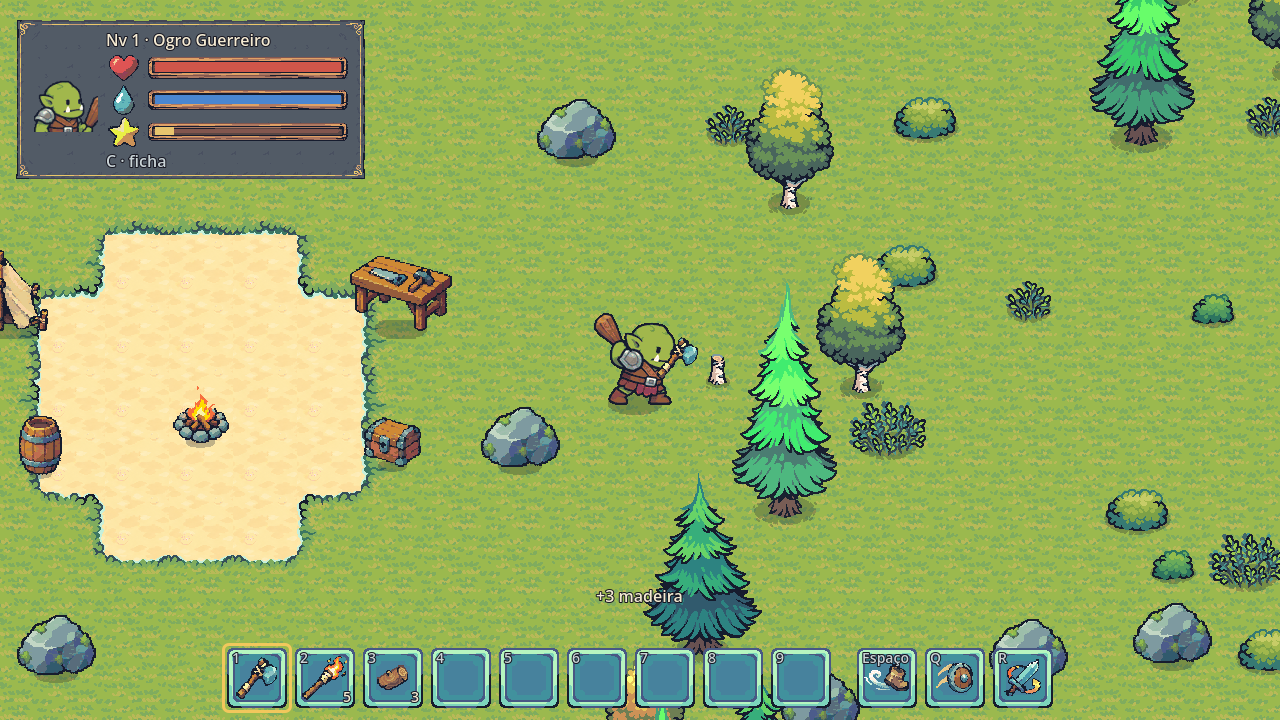
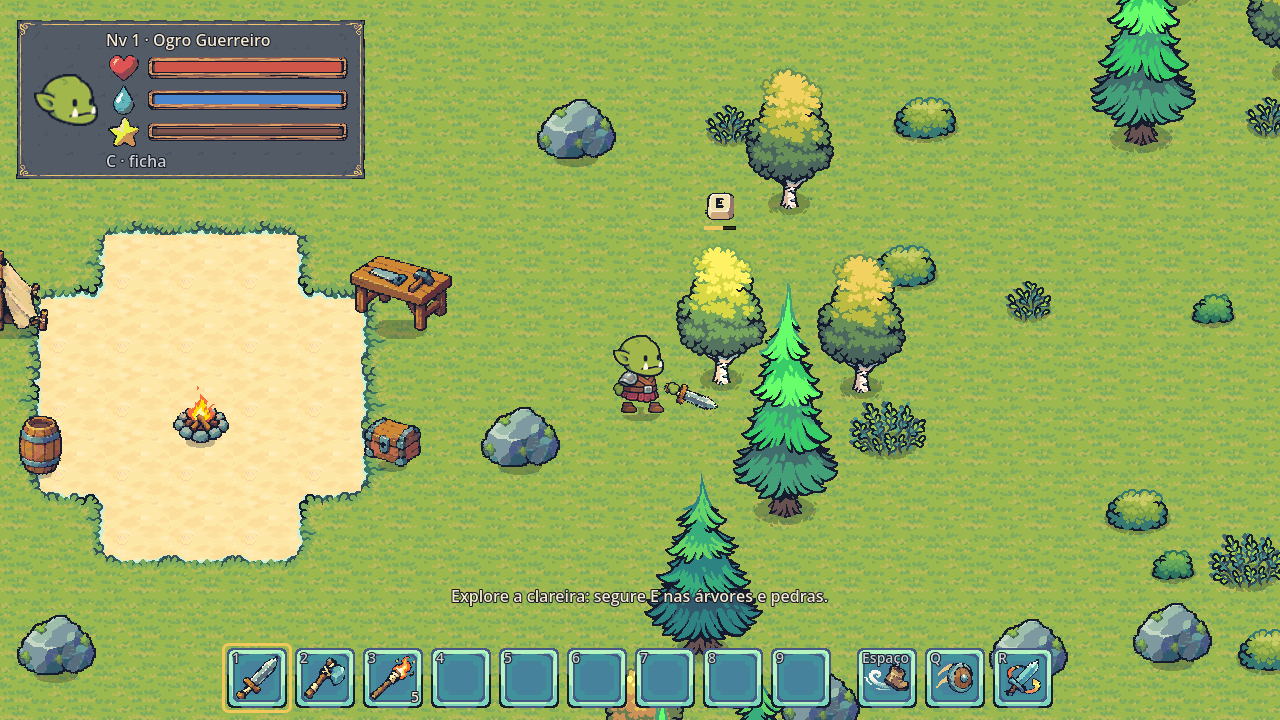
Personagens por peças no jogo (estilo Forager)
- scripts/player/boneco.gd: cabeça, tronco, pezinhos e mãozinhas montados pelo pecas.json;
  respira parado, alterna os pés andando, a mão da frente bate com o item; espelha para a
  esquerda; tudo em pixels inteiros da arte; sombra do pacote embaixo
- o item da barra vai na mão da frente (substitui o ícone solto); retrato = cabeça
- sai a folha antiga com a arma desenhada (L15)
- tests/print_bonecos.tscn (os 6 parados, andando e golpeando)
- README, backlog e processo de arte atualizados

diff --git a/design/backlog.md b/design/backlog.md
@@ -24,7 +24,7 @@ Lista oficial de tarefas. Marcar `[x]` só com prova (teste OK ou print revisado
 - [x] T20 Inventário estilo Minecraft (31/10): mochila (I ou Tab) com 27 espaços, barra 1-9, pilhas de 64, cliques do Minecraft (esquerdo, direito, Shift), item na mão. Habilidades foram para Q, R, F, G.
 - [x] T21 Fabricação (31/10): grade 2x2 na mochila e 3x3 na bancada (segurar E), receitas com forma como no Minecraft em `data/receitas/`; ferramentas de madeira e pedra (machado e picareta coletam mais rápido, espada bate mais forte).
 - [x] T22 Construção (31/10): parede, porta (o jogador passa, o slime não), chão de madeira, tocha, fogueira, baú e bancada; prévia verde ou vermelha; golpes quebram e devolvem o item; salvo no mundo e sincronizado.
-- [ ] T23 Inimigos com estados (patrulhar, perseguir, atacar). *Saque feito (gel de slime, 31/10).*
+- [x] T23 Slimes com estados (31/10): passeiam, perseguem, achatam antes de pular (aviso) e pulam; deixam gel de slime.
 - [x] T24 Noite perigosa (31/10): slimes mais fortes nascem no escuro (mais jogadores, mais slimes), fogem da luz da fogueira e das tochas, derretem ao amanhecer.
 - [x] T25 Salvar e carregar (anfitrião): árvores, pedras, noite e cada personagem (nível, pontos, itens, posição), um por jogador + raça + classe. Salva ao fechar a janela, ao voltar ao menu, quando alguém sai e a cada 60 s. Menu mostra o mundo salvo e tem "Começar mundo novo".
 
@@ -47,7 +47,7 @@ Tudo o que foi pedido para testar funcionou. Observações:
 - [x] F02 **Painéis feios** (menu, ficha, HUD): arte própria pedida em L04 (painel, botões, espaços, ícones de atributos) + fonte pixel → refazer menu, ficha e HUD.
 - [x] F03 **Personagem pixelado e feio** comparado ao conceito: refazer desenhado no tamanho do jogo, com menos detalhes e mais fofo; personagens são ponto forte do jogo. Pedido L03 (com teste de caracterização raça × classe).
 - [x] F04 Inventário de verdade (ver T20).
-- [x] F05 Item da barra na mão, girando a cada golpe (31/10). Falta: arma desenhada própria para a mão (hoje usa o ícone) e a pose de cada classe.
+- [x] F05 Personagens por peças, estilo Forager (31/10, L19): cabeça, tronco, pezinhos e mãozinhas soltas; o item da barra vai na mão da frente e bate junto. Cada classe começa com a sua arma (espada de ferro, cajado, arco).
 - [x] F06 *(feito junto com a interface)* **Tirar "CHEGUE MAIS PERTO"** e trocar a caixa por só uma teclinha "E" em cima da árvore/pedra quando estiver perto (arte da tecla pedida em L04).
 
 ## Etapa 4: a ilha cresce
@@ -72,6 +72,6 @@ L07: laboratório Godot isolado em `art/piloto_c02/abrir.cmd`, captura real revi
 - [x] A01l **Jogo migrado para o estilo Tiny Swords (30/10)**: terreno, espuma, árvores, tocos, arbustos e interface do pacote; câmera em zoom 4. Provisório: árvore queimada só escurece, sem marca de machado; beira da ilha em degraus (terreno em blocos).
 - [x] A01m Personagens próprios no estilo Tiny Swords (L15, 30/10): os 6 (Humano e Ogro x Guerreiro, Mago, Arqueiro) com parado, respirando, 2 passos, preparando e golpe, de perfil. Ilustração do Codex pixelizada aqui na densidade do pacote. No jogo; aguardando o João testar.
 - [x] A01n Acampamento, pedras, cogumelo e slime refeitos (L14) e efeitos, gelo, armadilha e ícones (L16) no estilo Tiny Swords, comparados lado a lado com o pacote. No jogo; aguardando o João testar.
-- [ ] A01o Próximos: animação de dano e de coletar dos personagens, mais quadros de caminhada (hoje 2 passos), árvore queimada própria, marca de machado.
+- [ ] A01o Próximos: personagem de costas e de frente (hoje só de perfil), árvore queimada própria, marca de machado, arco puxando a flecha e cajado brilhando ao lançar.
 - [ ] A01p *(guardado, 31/10)* Mais efeitos com o Pixelbolt (receitas em `art/fx_receitas/`): fogo na fogueira e nas árvores, fumaça, respingo na água, golpe do guerreiro, cura, raio. O João pediu para esperar.
 - [ ] A01g Fonte pixel própria (a do pacote placeholder tinha o "i" quebrado; hoje usa a fonte padrão do Godot). Ex.: Pixelify Sans (OFL), precisa de autorização para baixar.

diff --git a/README.md b/README.md
@@ -9,6 +9,9 @@ Co-op online de sobrevivência e exploração numa ilha de fantasia que reage ao
 **O que já funciona (sozinho ou com amigos):**
 - Inventário estilo Minecraft: mochila (I ou Tab) com 27 espaços e barra 1-9, pilhas de 64, fabricação 2x2 na mochila e 3x3 na bancada, ferramentas de madeira e pedra, item na mão.
 - Construção: parede, porta, chão de madeira, tocha, fogueira, baú e bancada, com prévia; golpes quebram e devolvem.
+- Baú que guarda itens (27 espaços, como no Minecraft), salvo no mundo.
+- Personagens por peças (estilo Forager): cabeça, tronco, pezinhos e mãozinhas; o item da barra vai na mão. Cada classe começa com a sua arma.
+- Gosma curativa (2 gel de slime): botão direito com ela na mão recupera vida.
 - Noite perigosa: slimes mais fortes no escuro, que fogem da luz e derretem ao amanhecer; derrotados deixam gel de slime.
 - Arte no estilo Tiny Swords:
   - ilha com mar e espuma animada, areia, grama, árvores balançando, arbustos e tocos;
@@ -48,6 +51,8 @@ Atalhos para testar sem o menu: `-- --solo`, `-- --hospedar` ou `-- --entrar=IP`
 | Coletar (segurar) | E, com o mouse em cima do objeto |
 | Golpear (ou pôr a peça da mão) | Clique esquerdo (na direção do mouse) |
 | Barra de itens | 1 a 9 ou a rodinha do mouse |
+| Usar o item da mão (gosma curativa) | Botão direito |
+| Abrir baú, usar bancada | Segurar E |
 | Mochila e fabricação | I ou Tab (na bancada: segurar E) |
 | Esquivar | Espaço |
 | Habilidades da classe | Q e R (Tiro carregado: segure e solte) |

diff --git a/design/processo_arte.md b/design/processo_arte.md
@@ -144,3 +144,20 @@ O Pixelbolt (`C:\Projetos\ferramentas\pixelbolt`, licença MIT, sem dependência
   - estouro de gelo, quando a lança acerta: 12 quadros.
 
   A explosão continua a do pacote. Comparação: `evidence/comparacao/pixelbolt_fx.png` e os GIFs `pixelbolt_*.gif`.
+
+## Personagens por peças (L19, 31/10)
+
+- **Estilo Forager:** cabeça, tronco, dois pezinhos e duas mãozinhas soltas; o item da barra vai na mão da frente. O jogo monta e anima as peças (`game/scripts/player/boneco.gd`), sempre em pixels inteiros da arte.
+- **Pedido:** uma folha por personagem, em ilustração.
+  - Célula 0: o personagem MONTADO, sem arma.
+  - Células 1 a 4: cabeça, tronco, pé e mão.
+- **A IA erra o tamanho das peças** (o pé do ogro veio quase 2x maior). Por isso `game/tools/montar_pecas.gd` não confia no tamanho:
+  1. acha cada peça dentro do personagem montado, testando escalas e posições;
+  2. assim descobre a escala e o lugar certos de cada uma;
+  3. pega a mancha inteira mesmo quando a IA passa da linha da célula.
+- **Saída:** em `game/assets/sprites/tiny/bonecos/<raca>_<classe>/` ficam:
+  - as peças (`cabeca`, `tronco`, `pe`, `mao`);
+  - `sombra.png`;
+  - `inteiro.png`;
+  - `pecas.json`, com o lugar de cada peça.
+- **Conferência:** `game/tools/previa_bonecos.gd` põe o boneco montado pelas peças ao lado do personagem inteiro (`evidence/comparacao/bonecos.png`). Tem de ficar igual.
